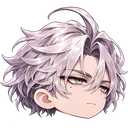
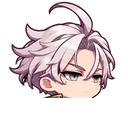
feat(squad): 冒險頁「小隊戰鬥」第一版——白律逐格上場、真實模擬結算、UR 大招
- squad-battle.mjs：冒險（模式）面板入口 → 獨立全螢幕直式戰場；只有已完成正式美術的同事上場（白律），
  薪奴為指揮官頭像不佔格；敵人用已核准逐格怪物（前後景深）
- formation-combat-runtime：新增大招（能量滿 → 單體 Boss／最高威脅、解除全部護盾與增益、高倍率傷害）＋測試
- char-frames.mjs：通用逐格播放器＋角色設定（下個角色只加設定）；動作優先序；出招中被打只紅閃不打斷
- 畫面血量／傷害數字延到命中格；大招期間暫停模擬；動作結束後與模擬對齊
- 試玩平衡：敵人數值依同事攻擊力換算（約 30 秒、2 次大招、勝利約剩 40% HP）
- 移除已否決的分層紙片路線在 app.mjs 的匯入與全域除錯變數；頭像改用定案待機圖
- 引擎層測試：白律部署時 guard 敵人減傷無效
未完成：不寫存檔、不發獎勵；敵人仍為原地攻擊（未衝刺接觸）；未實機手機驗證；分支無 CI。

diff --git a/v19/play.html b/v19/play.html
@@ -310,6 +310,21 @@ a{color:#ffda87}button:focus-visible,a:focus-visible{outline:3px solid #fff3ce;o
 @keyframes s1-ally-heal{0%{box-shadow:0 0 0 2px #70dbad;filter:brightness(1.8)}100%{box-shadow:0 2px 7px #08071377}}
 @keyframes s1-ally-guard{0%{box-shadow:0 0 0 2px #a5cfff;filter:brightness(1.7)}100%{box-shadow:0 2px 7px #08071377}}
 @media(prefers-reduced-motion:reduce){.s1-squad-unit[data-action-kind]{animation:none}}
+
+.squad-entry{display:flex;flex-direction:column;gap:3px;width:100%;margin:0 0 12px;padding:14px 16px;border:1px solid #e9c77d;border-radius:12px;background:linear-gradient(135deg,#3a2c1c,#21173a);color:#fff1d0;text-align:left;box-shadow:0 0 0 1px #6b5222,0 4px 14px #f1c96a33}
+.squad-entry strong{font-size:17px;letter-spacing:.12em;color:#f3dfa0}.squad-entry small{font-size:12px;color:#d9c9ea}.squad-entry:disabled{opacity:.55}
+#squad-battle{position:fixed;inset:0;z-index:9999;background:#0b0712;display:flex;align-items:center;justify-content:center;overflow:hidden}
+#squad-battle .sb-wrap{position:relative;width:min(100vw,calc((100dvh - 80px)*720/1220));max-width:560px}
+#squad-battle canvas{display:block;width:100%;height:auto;aspect-ratio:720/1220}
+#squad-battle .sb-bar{display:grid;grid-template-columns:62px 1fr auto;gap:10px;align-items:center;padding:8px 10px;background:linear-gradient(#241836,#140d1f);border-top:2px solid #d8b25a;color:#efe6d2}
+#squad-battle .sb-cmd{margin:0;text-align:center}#squad-battle .sb-cmd img{width:52px;height:52px;object-fit:cover;object-position:50% 12%;border-radius:50%;border:1px solid #d8b25a;background:#2b2140}
+#squad-battle .sb-cmd figcaption{font-size:10px;color:#cbb9d9}
+#squad-battle .sb-unit{display:grid;gap:4px;font-size:12px}#squad-battle .sb-unit strong{color:#f3dfa0;letter-spacing:.08em}#squad-battle .sb-unit small{color:#b9aecb;font-size:10px}
+#squad-battle .sb-hp,#squad-battle .sb-en{display:block;height:7px;border:1px solid #d8b25a;border-radius:4px;background:#0c0812;overflow:hidden}
+#squad-battle .sb-hp i,#squad-battle .sb-en i{display:block;height:100%;transition:width .25s}#squad-battle .sb-hp i{background:linear-gradient(#ffe9a8,#c9963a)}#squad-battle .sb-en i{background:linear-gradient(#bfe8ff,#4f8fd8)}
+#squad-battle button{border:1px solid #d8b25a;border-radius:8px;background:linear-gradient(#3a2957,#22173a);color:#f6ecd0;font:600 14px/1 inherit;padding:10px 14px}
+#squad-battle .sb-result{position:absolute;inset:0;display:grid;place-content:center;gap:12px;text-align:center;background:#0b0712cc;color:#f3dfa0}
+#squad-battle .sb-result[hidden]{display:none}#squad-battle .sb-result h2{font-size:44px;margin:0;letter-spacing:.3em}#squad-battle .sb-result p{color:#e7dcef;font-size:13px}#squad-battle .sb-result div{display:flex;gap:10px;justify-content:center}
 </style><link rel="stylesheet" href="../art/v19/runtime/ui/ornate-theme.css"><link rel="stylesheet" href="./portrait-home.css?v=portrait-home-v19-34a"><link rel="stylesheet" href="./portrait-one-screen.css?v=portrait-one-screen-v19-35"><link rel="stylesheet" href="./storybook-skin.css?v=storybook-v19-37"><link rel="stylesheet" href="./iphone-hud-fixes.css?v=iphone-fixes-v19-37"><link rel="stylesheet" href="./v20-home.css?v=v20-home-first-1"><link rel="stylesheet" href="./v20-art-live.css?v=p11-town-1"><link rel="stylesheet" href="./v20-royal-material.css?v=p08-royal-1"><link rel="stylesheet" href="./v20-p09-composition.css?v=p09-center-1"><link rel="stylesheet" href="./v20-p11-town.css?v=p11-town-1"><link rel="stylesheet" href="./v21-unified-stage.css?v=v21-stage-1"><link rel="stylesheet" href="./v21-research-lab.css?v=v21-lab-1"><link rel="stylesheet" href="./v21-forge-atelier.css?v=v21-art-forge-1"></head><body>
 <main id="app" class="portrait-shell" data-dev-visible="false" data-home-version="v21-unified-stage" data-v21-view="battle" data-v21-loot="closed" data-v21-more="closed" data-dev-enabled="false">
 <svg xmlns="http://www.w3.org/2000/svg" viewBox="0 0 64 64" id="storybook-inline-symbols" aria-hidden="true" focusable="false" style="position:absolute;width:0;height:0;overflow:hidden;pointer-events:none">
@@ -576,4 +591,4 @@ a{color:#ffda87}button:focus-visible,a:focus-visible{outline:3px solid #fff3ce;o
 <input id="player-name-input" autocomplete="nickname" maxlength="24" enterkeyhint="done" placeholder="例如：悟空、社畜王、夜班星人" required />
 <div id="name-preview">平凡社畜・你的名字</div><p id="name-message" role="status"></p>
 <button type="submit">開始我的冒險</button></form></dialog>
-<script type="module" src="./app.mjs?v=bailu-v1-2"></script><script type="module" src="./v20-art-live.mjs?v=p0-illustration-1"></script></body></html>
+<script type="module" src="./app.mjs?v=bailu-v1-3"></script><script type="module" src="./v20-art-live.mjs?v=p0-illustration-1"></script></body></html>

diff --git a/tools/playtest-squad.js b/tools/playtest-squad.js
@@ -1,0 +1,16 @@
+// 無頭驗收：建立測試存檔 → 招募並部署白律 → 冒險面板 → 小隊戰鬥
+const sleep=ms=>new Promise(r=>setTimeout(r,ms));
+const btn=t=>[...document.querySelectorAll('button')].find(b=>b.offsetParent&&(b.textContent.trim()===t||b.dataset.value===t||b.textContent.includes(t)));
+const inp=[...document.querySelectorAll('input')].find(i=>i.offsetParent);
+if(inp){inp.focus();inp.value='測試員';inp.dispatchEvent(new Event('input',{bubbles:true}));}
+btn('開始我的冒險')?.click();await sleep(800);
+btn('角色')?.click();await sleep(400);btn('colleagues')?.click();await sleep(500);
+document.querySelector('.s1-colleague-card[data-rarity=UR] button[data-action=s1RecruitColleague]')?.click();await sleep(400);
+document.querySelector('button[data-action=s1DeployColleague][data-slot="4"][data-value=lawyer]')?.click();await sleep(400);
+[...document.querySelectorAll('button')].find(b=>b.textContent.trim()==='✕'&&b.offsetParent)?.click();await sleep(300);
+document.querySelector('nav.tabs button[data-panel=modes]')?.click();await sleep(600);
+const entry=document.querySelector('button[data-action=openSquadBattle]');
+const r={entry:!!entry,disabled:entry?.disabled};
+entry?.click();await sleep(2500);
+r.overlay=!!document.getElementById('squad-battle');
+return r;

diff --git a/v19/bailu-frames.html b/v19/bailu-frames.html
@@ -19,7 +19,7 @@ import {CHIBI_ATTACK_V2_TOTAL_MS,attackFrameAt,attackPhaseAt,validateAttackAtlas
 import {validateHurtAtlas} from './hurt-timing.mjs';
 import {HIT_FEEDBACK_MS,hurtEffectAt} from './hurt-effects.mjs';
 import {BAILU_ATTACK_TOTAL_MS,bailuFrameAt,bailuLungeAt,BAILU_IMPACT_MS,BAILU_IMPACT_FRAME,BAILU_CUTIN_MS,BAILU_ULT_MS,BAILU_ULT_TOTAL_MS,BAILU_ULT_IMPACT_MS,bailuUltFrameAt,BAILU_IDLE_MS,BAILU_WALK_MS,loopFrameAt} from './bailu-timing.mjs';
-import {ultPhases,drawUltBack,drawUltFront,ultCamera,drawCutin,loadUltVfx} from './bailu-ult-fx.mjs?v=4';
+import {ultPhases,drawUltBack,drawUltFront,ultCamera,drawCutin,loadUltVfx} from './bailu-ult-fx.mjs?v=5';
 const UP=ultPhases(BAILU_CUTIN_MS,BAILU_ULT_MS);
 const cv=document.getElementById('world'),ctx=cv.getContext('2d');
 const load=s=>new Promise((r,j)=>{const i=new Image();i.onload=()=>r(i);i.onerror=j;i.src=s;});
